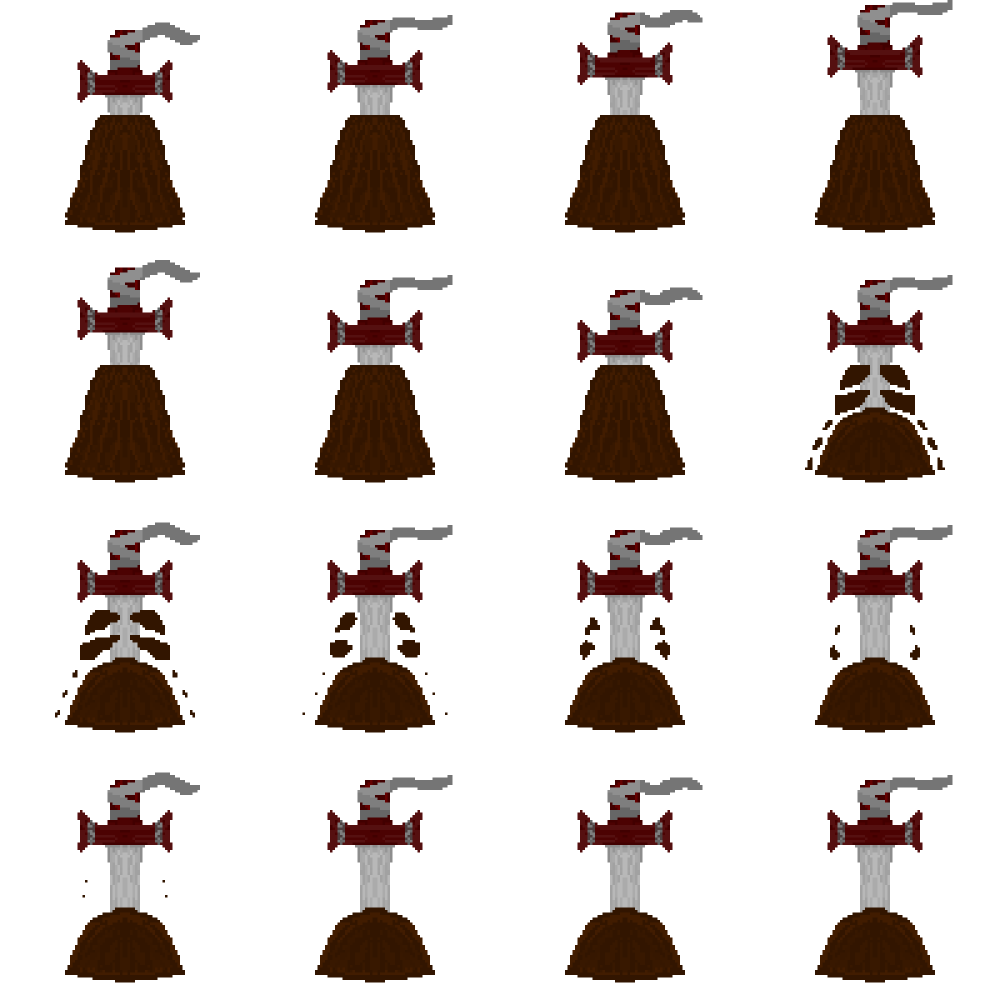
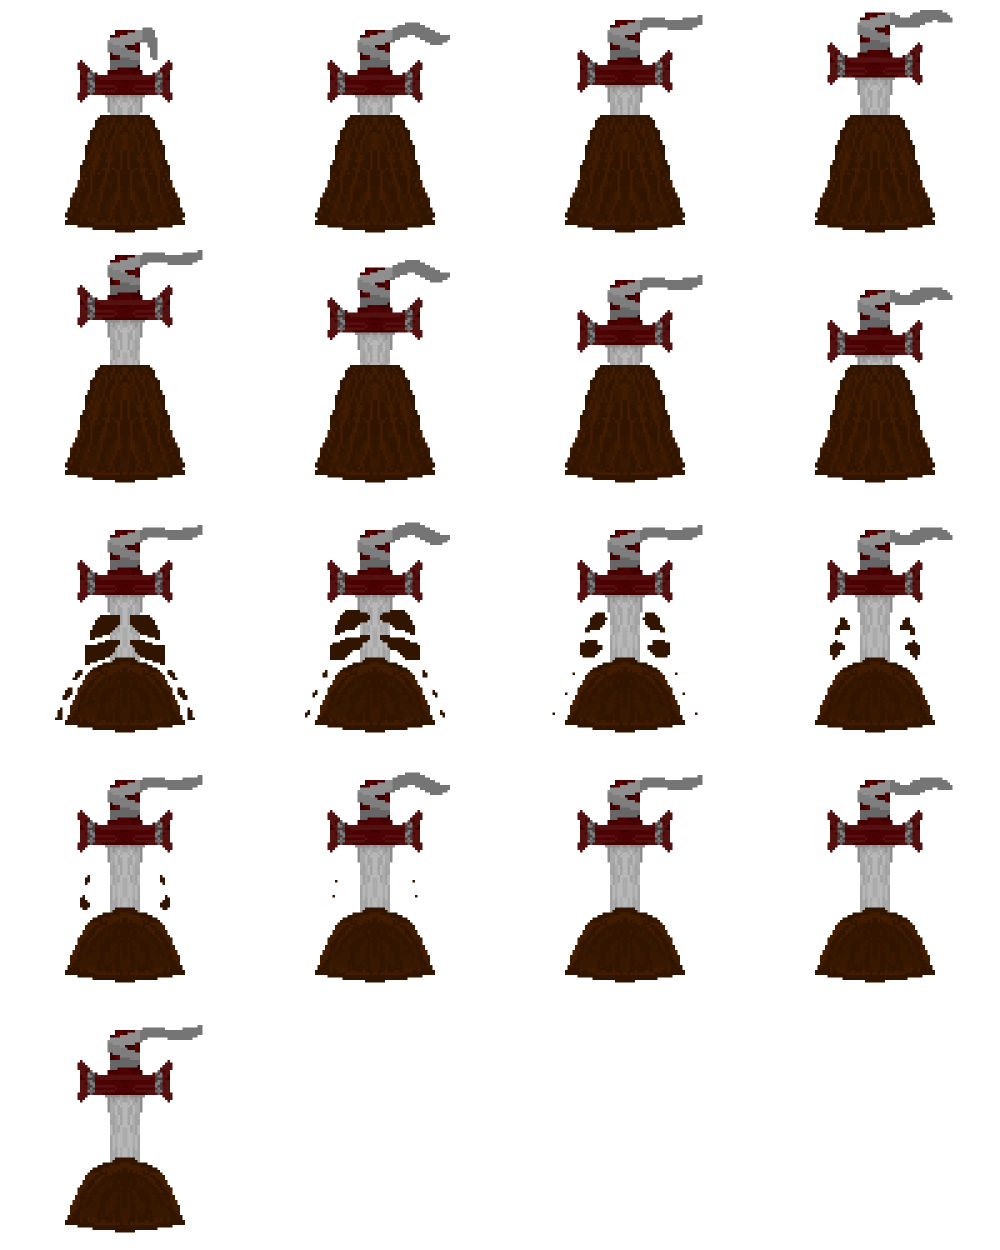
New Knight Selection Screen Frame

diff --git a/selection/dom.js b/selection/dom.js
@@ -285,7 +285,7 @@ staffEl.addEventListener(
 
 var swordFrame = 0;
 var swordAnimInterval = null;
-const totalswordHoverFrames = 16;
+const totalswordHoverFrames = 17;
 const swordHoverFramesPerRow = 4;
 const swordIdleFramesPerRow = 2;
 
